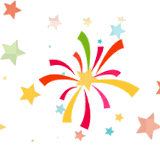
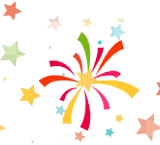
cambiando extensión imagen confeti

diff --git a/README.md b/README.md
@@ -76,6 +76,8 @@ https://www.loom.com/share/1979b74805544ba88a51dc68fa4adb37
 
 https://www.loom.com/share/3bc402c89e814559ad5faeafee835c9b
 
+https://www.loom.com/share/e7d51f53c8994645be8e214473308714
+
 ## Iteración
 
 Al realizar los testeo surgieron puntos a mejorar:
